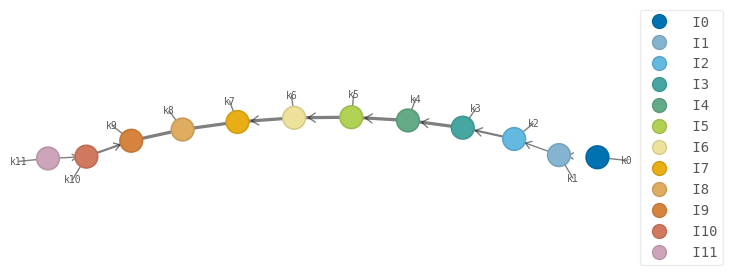
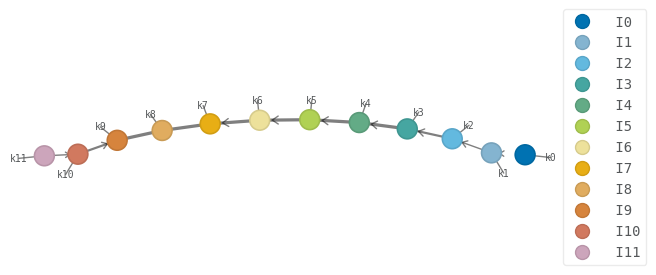
Replacing plots and small updates

diff --git a/demonstrations/tutorial_How_to_simulate_quantum_circuits_with_tensor_networks.py b/demonstrations/tutorial_How_to_simulate_quantum_circuits_with_tensor_networks.py
@@ -36,7 +36,6 @@ TODO: Insert figure
 #
 # We choose the maximum bond dimension as ``None``, meaning the bond dimension is not restricted.
 # The ``cutoff`` parameter is set to the machine epsilon of the ``numpy.complex128`` data type.
-# This value is the threshold below which to discard the singular coefficients of the Singular Value Decomposition (SVD) in the MPS method.
 #
 
 import pennylane as qml
@@ -98,12 +97,18 @@ for num_qubits in range(50, 201, 50):
 #
 
 circuit(theta, phi, num_qubits=12)
-dev.draw(color="auto", show_inds=True, figsize=(8, 6))
+dev.draw(color="auto", show_inds=True, figsize=(7, 5))
 
 ##############################################################################
 # .. figure:: ../_static/demonstration_assets/how_to_simulate_quantum_circuits_with_tensor_networks/MPS_circuit.png
 #    :align: center
 #    :width: 90%
+
+######################################################################
+# Selecting the MPS method, each gate is immediately contracted into the MPS representation of the wavefunction.
+# Therefore, the graphical representation of the quantum circuit is relatively simple
+# and it does not depend on the structure of the circuit (except for the number of qubits) or the specified keyword arguments.
+#
 
 ######################################################################
 # Simulating a quantum circuit with the TN method
@@ -164,7 +169,7 @@ for num_qubits in range(25, 101, 25):
 #
 
 circuit(theta, depth, num_qubits=15)
-dev.draw(color="auto", show_inds=True, figsize=(7, 7))
+dev.draw(color="auto", show_inds=True, figsize=(6, 6))
 
 ##############################################################################
 # .. figure:: ../_static/demonstration_assets/how_to_simulate_quantum_circuits_with_tensor_networks/TN_circuit.png
@@ -177,7 +182,7 @@ dev.draw(color="auto", show_inds=True, figsize=(7, 7))
 #
 
 ######################################################################
-# About the authors
+# About the author
 #
 #  .. include:: ../_static/authors/pietropaolo_frisoni.txt
 #
